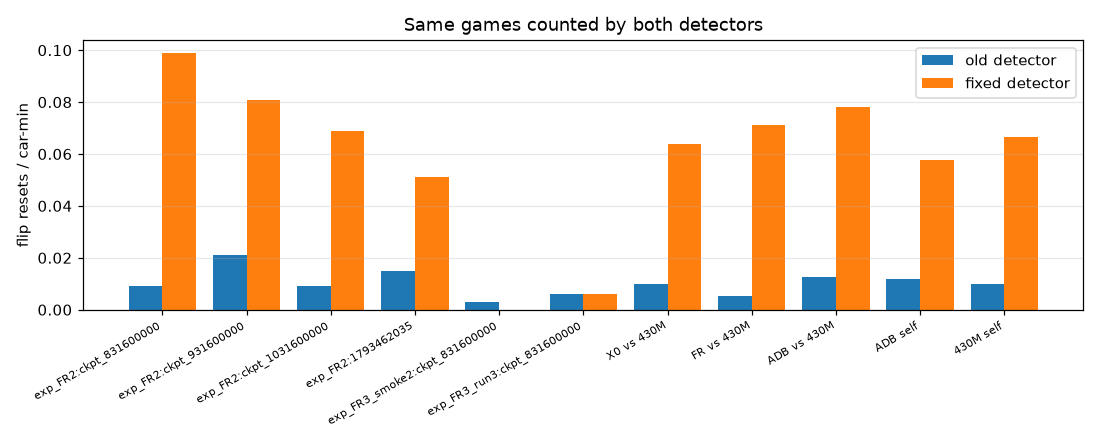
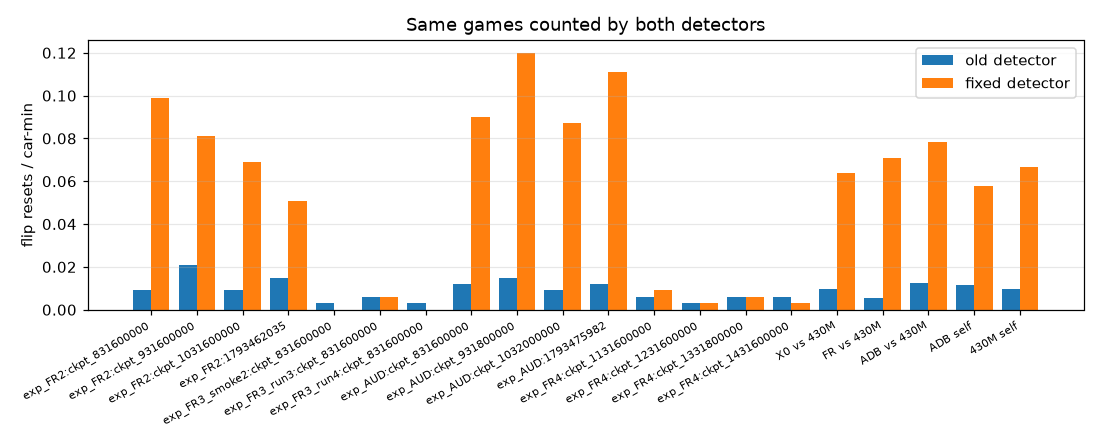
REPORT, EXPERIMENTS: AUD and FR4 results

Changed region(s): [[0.0, 0.0886, 0.9891, 0.9455], [0.3709, 0.0295, 0.7109, 0.0886], [0.2782, 0.9455, 0.3091, 0.975]]

diff --git a/docs/experiments/make_figures.py b/docs/experiments/make_figures.py
@@ -15,9 +15,9 @@ D, F = os.path.join(HERE, "data"), os.path.join(HERE, "figures")
 os.makedirs(F, exist_ok=True)
 ARMS = {"exp_X0": "X0 (control)", "exp_FR": "FR", "exp_ADB": "ADB"}
 COL = {"e8b2_1v1": "k", "exp_X0": "tab:gray", "exp_FR": "tab:blue", "exp_ADB": "tab:orange", "exp_FR2": "tab:green",
-       "exp_FR3_smoke1": "tab:pink", "exp_FR3_smoke2": "tab:olive", "exp_FR3_run3": "tab:purple", "exp_FR3": "tab:red"}
+       "exp_FR3_smoke1": "tab:pink", "exp_FR3_smoke2": "tab:olive", "exp_FR3_run3": "tab:purple", "exp_FR3_run4": "tab:red", "exp_AUD": "tab:cyan", "exp_FR4": "tab:brown"}
 NAME = {"e8b2_1v1": "R0 e8b2_1v1", **ARMS, "exp_FR2": "R2 FR2", "exp_FR3_smoke1": "FR3 smoke 1",
-        "exp_FR3_smoke2": "FR3 smoke 2", "exp_FR3_run3": "FR3 run 3", "exp_FR3": "FR3 run 4"}
+        "exp_FR3_smoke2": "FR3 smoke 2", "exp_FR3_run3": "FR3 run 3", "exp_FR3_run4": "FR3 run 4", "exp_AUD": "R4 AUD", "exp_FR4": "R5 FR4"}
 
 
 def rd(name):
@@ -68,7 +68,7 @@ for run, rows in M.items():
 
 # 2. Learning curves overlaid for all main runs (mean reward, KL, sps).
 fig, ax = plt.subplots(1, 3, figsize=(15, 4.2))
-for run in ["e8b2_1v1", "exp_X0", "exp_FR", "exp_ADB", "exp_FR2", "exp_FR3_run3", "exp_FR3"]:
+for run in ["e8b2_1v1", "exp_X0", "exp_FR", "exp_ADB", "exp_FR2", "exp_FR3_run3", "exp_FR3_run4", "exp_AUD", "exp_FR4"]:
     if run not in M:
         continue
     x = col(M[run], "steps") / 1e6
@@ -96,7 +96,7 @@ if h:
 # 4. Pool score + per-opponent win rate vs steps (100 games/opponent, periodic evals).
 P = rd("pool_evals.csv")
 OPP = ["1v1.pt", "ppo_430M", "nexto", "necto", "element", "immortal"]
-runs = [r for r in ["exp_X0", "exp_FR", "exp_ADB", "exp_FR2", "exp_FR3_run3", "exp_FR3"] if any(p["run"] == r for p in P)]
+runs = [r for r in ["exp_X0", "exp_FR", "exp_ADB", "exp_FR2", "exp_FR3_run3", "exp_FR3_run4", "exp_AUD", "exp_FR4"] if any(p["run"] == r for p in P)]
 fig, ax = plt.subplots(2, 4, figsize=(17, 7.5))
 panels = ["pool_score"] + OPP
 for a, k in zip(ax.flat, panels):
@@ -111,7 +111,7 @@ fig.suptitle("Periodic pool evals (100 games per opponent, se ≈ ±4-5 pts), se
 save(fig, "pool_vs_steps.png")
 
 # 5. Final 400-game pool per opponent (bar chart).
-Q = [q for q in rd("pool_400.csv") if q["source"] in ("final_analysis", "fr2_final", "pool_baseline")]
+Q = [q for q in rd("pool_400.csv") if q["source"] in ("final_analysis", "fr2_final", "aud_final", "fr4_final", "pool_baseline")]
 cands = []
 for q in Q:
     if q["candidate"] not in cands:
@@ -133,9 +133,9 @@ H = rd("h2h_1000.csv")
 if H:
     lab = [f"{h['candidate']} vs {h['opponent']}" for h in H]
     y = col(H, "win_rate_decisive") * 100; e = col(H, "se") * 100
-    fig, a = plt.subplots(figsize=(8, 4))
+    fig, a = plt.subplots(figsize=(8, 0.35 * len(lab) + 1.5))
     a.barh(lab, y, xerr=e * 1.96, capsize=3, color="tab:blue")
-    a.axvline(50, color="k", ls="--"); a.set_xlim(40, 70)
+    a.axvline(50, color="k", ls="--"); a.set_xlim(40, 72)
     a.set_xlabel("win % (bars: 95% CI = ±1.96 se)"); a.set_title("1000-game head-to-heads, seed 424242")
     for i, v in enumerate(y):
         a.text(v + 0.3, i, f"{v:.1f}", va="center", fontsize=8)
@@ -148,7 +148,7 @@ EV = [("Events/Flip Resets per min", "flip resets / car-min (R1: old detector; R
       ("Events/Demos per min", "demos / car-min"), ("Events/Has Flip Ratio", "has-flip ratio")]
 fig, ax = plt.subplots(2, 3, figsize=(15, 7.5))
 for a, (k, lab) in zip(ax.flat, EV):
-    for r in ["exp_X0", "exp_FR", "exp_ADB", "exp_FR2", "exp_FR3_run3", "exp_FR3"]:
+    for r in ["exp_X0", "exp_FR", "exp_ADB", "exp_FR2", "exp_FR3_run3", "exp_FR3_run4", "exp_AUD", "exp_FR4"]:
         if r in M and k in M[r][0]:
             a.plot(col(M[r], "steps") / 1e6, smooth(col(M[r], k), 20), color=COL[r], label=NAME[r], lw=1.2)
     a.set_xlabel("cumulative steps (M)"); a.set_ylabel(lab, fontsize=8); a.grid(alpha=0.3)
@@ -158,7 +158,7 @@ save(fig, "events_vs_steps.png")
 
 # 8. Reward-term share bar charts.
 S = rd("reward_shares.csv")
-for r in ["exp_X0", "exp_FR", "exp_ADB", "exp_FR2", "exp_FR3_run3", "exp_FR3"]:
+for r in ["exp_X0", "exp_FR", "exp_ADB", "exp_FR2", "exp_FR3_run3", "exp_FR3_run4", "exp_AUD", "exp_FR4"]:
     rr = sorted([s for s in S if s["run"] == r and s["window"] == "last20"], key=lambda s: -float(s["share"]))
     if not rr:
         continue
@@ -205,7 +205,7 @@ if R:
     save(fig, "detector_old_vs_new.png")
 
 # 10. FR2 / FR3 training reset rate by setter vs steps.
-for r in ["exp_FR2", "exp_FR3_run3", "exp_FR3"]:
+for r in ["exp_FR2", "exp_FR3_run3", "exp_FR3_run4", "exp_FR4"]:
     if r not in M:
         continue
     ks = [k for k in M[r][0] if k.startswith("Events/Flip Resets per min @")]
@@ -224,18 +224,19 @@ for r in ["exp_FR2", "exp_FR3_run3", "exp_FR3"]:
 
 # 11. FR3 curriculum success / level.
 fig, ax = plt.subplots(1, 2, figsize=(13, 4))
-for r in ["exp_FR3_smoke1", "exp_FR3_smoke2", "exp_FR3_run3", "exp_FR3"]:
+for r in ["exp_FR3_smoke1", "exp_FR3_smoke2", "exp_FR3_run3", "exp_FR3_run4", "exp_FR4"]:
     if r not in M or "Curriculum/success" not in M[r][0]:
         continue
-    x = (col(M[r], "steps") - 831.6e6) / 1e6
+    x = (col(M[r], "steps") - col(M[r], "steps")[0]) / 1e6
     ax[0].plot(x, smooth(col(M[r], "Curriculum/success"), 4) * 100, color=COL[r], label=NAME[r])
     ax[1].plot(x, col(M[r], "Curriculum/level"), color=COL[r], label=NAME[r])
-ax[0].axhline(7.3, ls="--", color="gray", label="L0 no-input baseline 7.3%")
+ax[0].axhline(7.3, ls="--", color="gray", label="L0 no-input baseline 7.3% (smoke runs, run 3)")
+ax[0].axhline(18, ls="--", color="tab:brown", lw=0.8, label="easier L0 no-input 18% (run 4, FR4)")
 ax[0].axhline(54.7, ls=":", color="k", label="L0 scripted baseline 54.7%")
 ax[0].axhline(60, ls="-.", color="tab:red", lw=0.8, label="advance threshold 60%")
 ax[0].set_ylabel("curriculum success % (2M-step mean)"); ax[1].set_ylabel("curriculum level")
 for a in ax:
-    a.set_xlabel("steps since warm start at 831.6M (M)"); a.legend(fontsize=7); a.grid(alpha=0.3)
+    a.set_xlabel("steps since warm start (M; FR3 at 831.6M, FR4 at 1131.6M)"); a.legend(fontsize=7); a.grid(alpha=0.3)
 save(fig, "fr3_curriculum.png")
 
 # 12. FR3 per-level baselines.

diff --git a/docs/experiments/extract_data.py b/docs/experiments/extract_data.py
@@ -9,7 +9,7 @@ import csv, json, os, sys
 RAW = sys.argv[1]
 OUT = sys.argv[2] if len(sys.argv) > 2 else os.path.join(os.path.dirname(os.path.abspath(__file__)), "data")
 os.makedirs(OUT, exist_ok=True)
-RUNS = ["e8b2_1v1", "exp_X0", "exp_FR", "exp_ADB", "exp_FR2", "exp_FR3_smoke1", "exp_FR3_smoke2", "exp_FR3_run3", "exp_FR3"]
+RUNS = ["e8b2_1v1", "exp_X0", "exp_FR", "exp_ADB", "exp_FR2", "exp_FR3_smoke1", "exp_FR3_smoke2", "exp_FR3_run3", "exp_FR3_run4", "exp_AUD", "exp_FR4"]
 LEARN = ["Collect/avg step reward", "Loss/policy", "Loss/value", "Loss/KL divergence", "Loss/entropy",
          "Loss/clip fraction", "Throughput/overall", "Collect/episode length", "Player/In Air Ratio",
          "Player/Ball Touch Ratio", "Rating/1v1"]
@@ -115,9 +115,14 @@ wcsv("r0_h2h_vs_1v1.csv", rows, ["steps", "checkpoint", "opponent", "games", "wi
 H = ["source", "candidate", "opponent", "games", "wins", "losses", "timeouts", "win_rate_decisive", "se", "seed", "time"]
 rows = [dict(d, source="final_analysis") for d in jl(os.path.join(RAW, "final_analysis", "h2h.jsonl"))]
 rows += [dict(d, source="fr2_final") for d in jl(os.path.join(RAW, "fr2_final", "h2h.jsonl"))]
+rows += [dict(d, source="aud_final") for d in jl(os.path.join(RAW, "aud_final", "h2h.jsonl"))]
+for f in ("h2h_ADB.jsonl", "h2h_AUD.jsonl"):
+    rows += [dict(d, source="fr4_final") for d in jl(os.path.join(RAW, "fr4_final", f))]
 wcsv("h2h_1000.csv", rows, H)
 rows = [dict(d, source="final_analysis") for d in jl(os.path.join(RAW, "final_analysis", "pool400.jsonl"))]
 rows += [dict(d, source="fr2_final") for d in jl(os.path.join(RAW, "fr2_final", "pool400.jsonl"))]
+for v in ("aud_final", "fr4_final"):
+    rows += [dict(d, source=v) for d in jl(os.path.join(RAW, v, "pool400.jsonl"))]
 for v in ("pool_baseline", "pool_baseline_nojitter", "pool_baseline_reused_engine"):
     rows += [dict(d, source=v) for d in jl(os.path.join(RAW, "e8b2_1v1", "logs", v + ".jsonl"))]
 wcsv("pool_400.csv", rows, H)

diff --git a/docs/experiments/REPORT.md b/docs/experiments/REPORT.md
@@ -6,13 +6,15 @@ Every number below comes from the run logs on the training box (`~/ippo_runs`), 
 
 ## Abstract
 
-We moved the 1v1 bot from the Python rlgym-ppo stack to **indococo-ppo**, a Rust PPO framework forked from VirxEC/rlgymppo_rs. It runs about 1.7× faster than upstream: 70.1k vs 40.8k steps/s on one L4. Then we ran four rounds of experiments aimed at two mechanics the community says separates top bots, **flip resets** and **air dribble bumps**.
+We moved the 1v1 bot from the Python rlgym-ppo stack to **indococo-ppo**, a Rust PPO framework forked from VirxEC/rlgymppo_rs. It runs about 1.7× faster than upstream: 70.1k vs 40.8k steps/s on one L4. Then we ran five rounds of experiments aimed at two mechanics the community says separates top bots, **flip resets** and **air dribble bumps**.
 
 - **R0.** Continuing from the Python policy `1v1.pt` gave a peak at 430–531M steps of 60–62% against `1v1.pt` (400 games). That fell to 44.8% at 600M under plain self-play with a constant learning rate.
 - **R1.** Adding an opponent pool, cosine LR decay and keep-best fixed the drift. All three R1 arms beat 430M about 63.5% over 1000 games. The targeted rewards did not change behaviour: ADB-832M is the strongest bot, with pool score 84.7, but bumps went down.
 - **Bug.** The flip-reset detector missed 80–90% of real resets, because RocketSim reports wheels-on-ball as `on_ground`. With a per-tick detector, the true baseline is about 0.06–0.08 resets per car-minute. Almost all of those come from a setter that resets the car passively, and **no checkpoint has ever used a reset**.
 - **R2.** A use-weighted reset reward (FR2) made a stronger bot: 57.2% against ADB-832M over 1000 games. But it still learned no resets: 0.051/min and 0 uses.
-- **R3.** FR3, a staged reset curriculum with potential-based wheel-alignment shaping, is **in progress**. Through run 3 (41.5M steps), success on the easiest level stayed at about 1%. That is below the 7.3% a car with no input gets and far below the 54.7% of a scripted aligner. The air dribble terms take about 13% of |reward| against 0.02% for the reset payoff. Run 4, with an easier level 0, the aerial terms zeroed in curriculum episodes and entropy raised to 0.025, started at 1:55 PM ET on Oct 31.
+- **R3.** FR3, a staged reset curriculum with potential-based wheel-alignment shaping, never left level 0. Run 3 (41.5M steps) held about 1% success on the easiest level, below the 7.3% a car with no input gets. Run 4 (easier level 0, aerial terms zeroed in curriculum episodes, entropy 0.025) held about 5% against an 18% no-input baseline and was stopped at 895.6M so the air rewards could be audited first.
+- **R4.** AUD reworked the four air dribble terms to pay only goalward progress, with decay and caps. Warm-started from ADB-832M, its 1131.6M final beat ADB-832M **64.6%** over 1000 games with pool score **87.0**. There was no control arm, so part of that gain is just 300M more steps.
+- **R5.** FR4 put the FR3 run-4 reset curriculum on top of the AUD rewards (1131.6M → 1431.6M). It is the strongest bot so far: **63.3%** vs ADB-832M, **53.2%** vs AUD-final, pool **87.1** (Nexto 89.8). The curriculum still never left level 0 (about 4% success against 18% for no input), and **no checkpoint has used a reset**.
 
 ## 1. Setup
 
@@ -340,7 +342,7 @@ Over the last 20 iterations, `flip_reset_use` was **0.001%** of |reward| and `ai
 - The policy almost never reaches a reset position on its own, so a reward conditioned on a reset almost never pays. There is no gradient to follow.
 - Shipped as `checkpoints_to_test/fr2_1132M.bpk`.
 
-## 6. R3: FR3, staged reset curriculum (IN PROGRESS)
+## 6. R3: FR3, staged reset curriculum (stopped)
 
 **Hypothesis.** An adaptive curriculum that starts with the ball almost on the wheels, plus dense potential-based alignment shaping, will let the policy find resets and then move out to `air_reset` difficulty.
 
@@ -385,7 +387,7 @@ Over the last 20 iterations, `flip_reset_use` was **0.001%** of |reward| and `ai
 | smoke 1 | first design: align w=10, improvement-only shaping, use w=80, L0 spin 2–3.5 rad/s | 22.8M logged (to 854.4M; EXPERIMENTS.md quotes 17M) | 0.8%, ended at 0 | 0.016% | 45–57k incl. start eval |
 | smoke 2 | spin 1.5–2.5, ease 1.5, align w=400, use w=600 | 27.8M logged (to 859.4M; EXPERIMENTS.md quotes 23M) | 1.2% (no-input 7%) | 0.64% | 58–69k |
 | run 3 | potential-based `reset_align`, obtain grace 0.3 s | 41.5M (to 873.1M), then stopped | 0–2.5% per 0.5M window, flat; **level stayed 0** | 1.69% (last 20 it.), 1.79% (whole run) | 49–67k |
-| **run 4 (live)** | run 3 + **easier level 0** (gap 30–60 uu, spin 1–2 rad/s; no-input 18%, scripted alignment 56%; level window 200 → 100 attempts; commit d57f47c) + **aerial terms zeroed in curriculum episodes** (`setter_scale.reset_curriculum`: airdribble, airdribble_seq, air_touch_height, aerial_distance, contact_quality = 0) + **entropy 0.01 → 0.025** | started 1:55 PM ET Oct 31 | not yet recorded | not yet recorded | not yet recorded |
+| run 4 | run 3 + **easier level 0** (gap 30–60 uu, spin 1–2 rad/s; no-input 18%, scripted alignment 56%; level window 200 → 100 attempts; commit d57f47c) + **aerial terms zeroed in curriculum episodes** (`setter_scale.reset_curriculum`: airdribble, airdribble_seq, air_touch_height, aerial_distance, contact_quality = 0) + **entropy 0.01 → 0.025** | 63.5M (832.1M to 895.6M), then stopped | about 4.7% over the last 20M steps, against an 18% no-input baseline; **level stayed 0** | see `data/reward_shares.csv` | see `figures/learning_exp_FR3_run4.png` |
 
 Run 3's first eval at 831.6M: pool 82.5 (1v1.pt 52, 430M 71, Nexto 86, Necto 95, Element 96, Immortal 95). On `rates_fr3.toml` it got 0.006 resets/min, curriculum L2 earned share 0, and 0 uses. That mix differs from `rates_mix.toml`, so it cannot be compared with the §4 table.
 
@@ -408,9 +410,66 @@ So the air dribble shaping pays about 700× more than the reset payoff (13.3 / 0
 
 ![FR3 run 3 shares](figures/reward_share_exp_FR3_run3.png)
 
-**Status: IN PROGRESS.** The decision rule was: if level-0 success is still under 5% at about 900M, make it easier and explore more. Run 3 was stopped at 873.1M and run 4 started. Its results, verdict and pool/h2h are not recorded yet.
+**Status: stopped.** The decision rule was: if level-0 success is still under 5% at about 900M, make it easier and explore more. Run 3 was stopped at 873.1M and run 4 started. Run 4 also stayed at level 0, below even the easier no-input baseline, and was stopped at 895.6M so the air rewards could be audited first (R4). The curriculum was then retried on the audited rewards as FR4 (R5).
 
-## 7. Summary of checkpoints
+## 7. R4: AUD, air reward audit (831.6M → 1131.6M)
+
+**Why.** The four air dribble terms (`airdribble`, `airdribble_seq`, `air_touch_height`, `aerial_distance`) were about 73–77% of positive shaping and 21–23% of |reward| in every run since R0. One goalward touch under the ball paid all four, `airdribble_seq` paid every chained touch in any direction with no decay or cap, and `airdribble` paid for flying near the ball without touching it. Full audit table: `EXPERIMENTS.md`, Round 4.
+
+**Design** (`experiments/aud.toml`, extends ADB):
+
+- `air_touch_height` 30 → 0.
+- `airdribble_seq` 55 → 50: touch and chain bonus scaled by max(0.1, goalward ball speed), 0.8 decay per touch, capped at 6 touches, carry counts only ball progress toward goal.
+- `airdribble` 40 → 50: direction and push floors removed, pays only within 0.5 s of the carrier's last touch.
+- `aerial_distance` 40 → 38: ball progress toward goal only.
+- A first try at weights 20/20/15 gave only 3.8% of |reward| (target 8–12%) and was stopped at 846.2M; the run uses ×2.5.
+- New metric `Events/Aerial Goals per min`.
+- 300M steps from ADB-best with `train_template.toml`, the same pool and LR schedule as ADB. The planned CTRL arm (unchanged ADB rewards) was dropped at the user's request, so AUD is compared against ADB-best only. Trained about 2:20–3:46 PM ET Oct 31.
+
+**Results** (`aud_final/`, seed 424242):
+
+| measure | AUD-final (1131.6M) | ADB-832M |
+|---|---|---|
+| h2h, 1000 games | **64.6%** (646-354, ±1.5) vs ADB-832M | — |
+| pool score (400 games per opponent) | **87.0** | 84.7 |
+| vs 1v1.pt / 430M / Nexto | 72.5 / 69.5 / 87.2 | 65.2 / 65.0 / 85.5 |
+| vs Necto / Element / Immortal | 97.5 / 99.0 / 96.5 | 95.8 / 99.0 / 97.5 |
+
+- **Air term share** (last 20 iterations, `RewardAbs/`): `airdribble` 4.96%, `airdribble_seq` 2.69%, `aerial_distance` 0.70%, `air_touch_height` 0, so 8.35% for the four, inside the 8–12% target (FR3 run 3 had about 21%). `air_dribble_bump` 1.24%. The goal term is now the largest at 23.7%.
+- **Training events**, mean of the last 100M steps (ADB's last 100M in brackets): aerial goals 0.40/min (not logged for ADB), goals 1.04/min, air dribble bumps 0.55 (0.57), bumps 1.75 (1.59), demos 0.41 (0.44), in-air ratio 0.52 (0.52).
+- **Flip resets** (`rates_mix.toml`, 300k steps vs 430M): 0.111 resets/min, earned-reset share of flier episodes 8.3%, almost all from the `air_near_ball` setter (0.50/min), **0 uses**.
+- Periodic 100-game pools: 82.0 at 831.6M, 86.5 at 931.8M, 85.2 at 1032.0M, 86.8 at 1131.6M.
+
+**Verdict.** Pass on everything measurable: the air terms are in the target band, aerial goals are logged and steady, and AUD beats ADB-832M clearly with a higher pool score. Without CTRL, the gain can't be split between the reward change and 300M more steps; for scale, FR2 with 300M more steps on different rewards beat ADB-832M 57.2%. Shipped as `checkpoints_to_test/aud_1132M.bpk`.
+
+![AUD shares](figures/reward_share_exp_AUD.png)
+
+## 8. R5: FR4, flip resets on the audited rewards (1131.6M → 1431.6M)
+
+**Design** (`experiments/fr4.toml`, `train_fr4_template.toml`): `aud.toml` plus FR3 run 4's reset setup. That is `flip_reset_use` 600 (obtain grace 0.3 s), potential-based `reset_align` 400, the `reset_curriculum` setter at 28% with the easier level 0, entropy 0.025, LR 5e-5 held to 1231.6M then cosine to 0.4×, and the aerial terms and `contact_quality` zeroed in curriculum episodes. Warm-started from AUD-final, 300M steps, trained about 3:46–5:23 PM ET Oct 31 at about 61k steps/s. The chain's FR4 driver exited before training ended, so the final 1000-game h2hs and the 400-game pool were run by hand (`fr4_final/run.sh`); the 1431.6M checkpoint's periodic eval (pool and rates) had already run.
+
+**Results** (`fr4_final/`, seed 424242):
+
+| measure | FR4-final (1431.6M) |
+|---|---|
+| h2h vs ADB-832M, 1000 games | **63.3%** (633-367, ±1.5) |
+| h2h vs AUD-final, 1000 games | **53.2%** (532-468, ±1.6) |
+| pool score (400 games per opponent) | **87.1**, the best so far |
+| vs 1v1.pt / 430M / Nexto | 68.0 / 71.0 / **89.8** |
+| vs Necto / Element / Immortal | 98.0 / 99.5 / 96.5 |
+
+- **Curriculum:** the level never left 0. Level-0 success averaged 4.1% over the run and 3.8% over the last 100M, against 18% for no input and 56% for the scripted aligner.
+- **Flip resets** (`rates_fr3.toml`, 300k steps vs 430M, at 1431.6M): 0.003 resets/min, 0 earned resets, **0 uses**; 0 resets from the curriculum pinned at level 2. Every periodic eval (1131.6M to 1431.6M) was between 0.003 and 0.009 resets/min with 0 uses.
+- **Reward share** (last 20 iterations): `reset_align` 2.25%, `flip_reset_use` 0.03%, the four air terms 5.3%.
+- **Training events**, last 100M steps (AUD in brackets): aerial goals 0.27/min (0.40), goals 1.03 (1.04), air dribble bumps 0.36 (0.55), bumps 1.45 (1.75), demos 0.22 (0.41), in-air ratio 0.50 (0.52). The curriculum episodes take 28% of training, so these training-mix rates are not directly comparable.
+- Periodic 100-game pools: 86.7, 86.5, 87.2, 87.5; keep-best promoted 1331.8M (51.0% vs best over 400) and 1431.6M (53.5%).
+
+**Verdict.** A stronger bot, but not for the targeted reason. FR4 beats AUD-final by about 2 se and has the best pool and Nexto scores, which most likely comes from 300M more steps at a low, decaying LR. It learned no flip resets, and the curriculum failed for the third time even with the air shaping cut to about 5%. Shipped as `checkpoints_to_test/fr4_1432M.bpk`.
+
+![FR4 setters](figures/reset_by_setter_exp_FR4.png)
+![FR4 shares](figures/reward_share_exp_FR4.png)
+
+## 9. Summary of checkpoints
 
 | checkpoint | steps | lineage | best evidence | where |
 |---|---|---|---|---|
@@ -422,9 +481,11 @@ So the air dribble shaping pays about 700× more than the reset payoff (13.3 / 0
 | FR-best | ~881M | R1 FR | 50.2% vs X0 (1000 g); pool 83.8 | box: `final_analysis/bests/FR` |
 | **ADB-832M** | 831.6M | R1 ADB | 63.6% vs 430M, 52.1% vs X0 (1000 g); **pool 84.7** (best) | `checkpoints_to_test/adb_832M.bpk`; release [`adb-832m`](https://github.com/SentientPlatypus/indonesian_coconut/releases/tag/adb-832m) |
 | **FR2-1132M** | 1131.6M | R2 | **57.2% vs ADB-832M** (1000 g); pool 83.5 | `checkpoints_to_test/fr2_1132M.bpk` |
-| FR3 | — | R3 | in progress | box: `exp_FR3/bots/best` (still ADB-832M) |
+| FR3 | — | R3 | stopped at level 0; no checkpoint kept | box: `exp_FR3_run4` |
+| **AUD-1132M** | 1131.6M | R4 | **64.6% vs ADB-832M** (1000 g); pool 87.0 | `checkpoints_to_test/aud_1132M.bpk` |
+| **FR4-1432M** | 1431.6M | R5 | **63.3% vs ADB-832M**, **53.2% vs AUD-1132M** (1000 g); **pool 87.1** (best) | `checkpoints_to_test/fr4_1432M.bpk` |
 
-## 8. Lessons learned and threats to validity
+## 10. Lessons learned and threats to validity
 
 1. **100-game evals are noisy** (±5 pts per opponent). The same 430.8M checkpoint scored 81.5 and 80.8 in two 100-game pool evals and 79.0 over 400 games. Periodic keep-best decisions near the threshold are partly luck, so only the 1000-game h2hs (±1.6) should rank close candidates. ADB vs X0 at 52.1% is not significant.
 2. **Self-play zero-sum effects.**
@@ -438,12 +499,12 @@ So the air dribble shaping pays about 700× more than the reset payoff (13.3 / 0
 7. **Single seed per run.** Every training run is one seed, so run-to-run variance is not recorded.
 8. **Headless ≠ RLBot.** Headless evals apply actions on the tick they are chosen, while RLBot runs them a few ticks late. Nexto's headless numbers may differ from live matches.
 
-## 9. Future work
+## 11. Future work
 
-- Finish FR3 run 4. If the level-0 success still doesn't beat the 7.3% no-input baseline, consider:
+- The reset curriculum failed three times (FR3 runs 3–4, FR4), always below the no-input baseline. Next options:
   - behaviour cloning or a warm-up from the scripted aligner, which gets 54.7% at L0;
   - a separate reset-specialist policy, distilled later (an idea from Discord);
-  - lowering `airdribble_seq` globally rather than only in curriculum episodes.
+  - a curriculum-only pretraining phase, or paying only for earned resets above the no-input rate.
 - A tight, attacker-only ADB event (≥ 2 attacker air touches in 1.5 s, ball within 250 uu), logged by absolute value, with its share raised to 4–5%.
 - Multi-seed reruns of the key comparisons (X0 vs ADB) to measure seed variance.
 - Framework: reuse collection values (stage 3), CUDA graphs and a GPU rollout buffer, as in the indococo-ppo README roadmap.
@@ -483,4 +544,4 @@ So the air dribble shaping pays about 700× more than the reset payoff (13.3 / 0
 - the old detector in R1 runs (R1's `Events/Flip Resets per min` *is* the old detector);
 - signed-vs-abs reward shares for R0/R1;
 - seed variance;
-- anything for FR3 run 4 so far.
+- a CTRL arm for AUD (dropped), so AUD's reward effect can't be separated from more training.

diff --git a/indococo_ppo_bot/EXPERIMENTS.md b/indococo_ppo_bot/EXPERIMENTS.md
@@ -353,6 +353,16 @@ AUD's result can't be fully separated from 300M more steps of training. AUD is
 compared against ADB-best instead (1000-game h2h, seed 424242, and the 400-game
 pool). Right after AUD's training ends, FR4 starts from AUD's final checkpoint.
 
+### AUD result
+
+AUD-final (1131.6M) beat ADB-best 646-354 (**64.6%**, ±1.5) over 1000 games
+(seed 424242) with a 400-game pool score of **87.0** (1v1.pt 72.5, 430M 69.5,
+Nexto 87.2, Necto 97.5, Element 99.0, Immortal 96.5; ADB-best 84.7). The four
+air terms ended at 8.35% of |reward| (last 20 iterations), inside the 8-12%
+target, and aerial goals held at about 0.40/min. Flip resets on
+`rates_mix.toml`: 0.111/min, 0 uses. Without CTRL the gain can't be split
+from 300M more steps. Shipped as `checkpoints_to_test/aud_1132M.bpk`.
+
 ## Round 5: FR4 (flip resets on the audited rewards)
 
 `experiments/fr4.toml` = `aud.toml` + the FR3 run-4 reset setup:
@@ -363,3 +373,15 @@ and `setter_scale.reset_curriculum` zeroing `airdribble`, `airdribble_seq`,
 0.32 then 0.30, entropy 0.025, LR 5e-5) with the LR hold moved to
 1131.6M + 100M, then cosine to 0.4x. 300M steps (1131.6M -> 1431.6M), run
 folder `exp_FR4`, tmux session `ippo_FR4`.
+
+### FR4 result
+
+FR4-final (1431.6M) beat ADB-best 633-367 (**63.3%**) and AUD-final 532-468
+(**53.2%**, ±1.6) over 1000 games each (seed 424242), with the best pool score
+so far, **87.1** (1v1.pt 68.0, 430M 71.0, Nexto 89.8, Necto 98.0, Element 99.5,
+Immortal 96.5). No resets: the curriculum stayed at level 0 for all 300M steps
+(level-0 success about 4% against 18% for no input), and `rates_fr3.toml` gave
+0.003 resets/min with 0 uses. The chain's FR4 driver exited before training
+ended, so the final evals were run by hand (`~/ippo_runs/fr4_final/`).
+Shipped as `checkpoints_to_test/fr4_1432M.bpk`. Full write-up:
+`docs/experiments/REPORT.md` sections 7-8.
